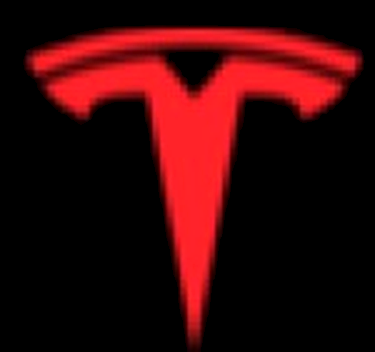
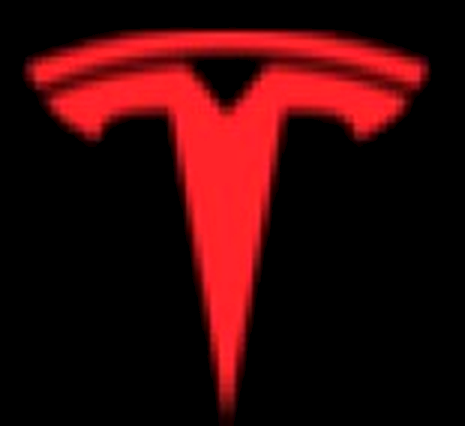
docs: fix Home longitudinal badges
Tesla T + TACC and comma + LONG are the stack badges. Atom
is experimental, on its own.

Changed region(s): [[0.0293, 0.0625, 0.968, 1.0]]

diff --git a/README.md b/README.md
@@ -41,9 +41,9 @@ The footer shows which longitudinal stack is live:
 
 | | |
 |:---:|:---|
-| <img src="docs/screenshots/icon-tacc.png" height="88" alt="TACC"> | **TACC** — Tesla Traffic-Aware Cruise Control. Openpilot steers. Tesla still does gas and brake. |
-| <img src="docs/screenshots/icon-long.png" height="88" alt="LONG"> | **LONG** — openpilot longitudinal. Alpha. Openpilot does gas and brake, not Tesla ACC. |
-| <img src="docs/screenshots/icon-experimental.png" height="88" alt="Experimental"> | **Experimental** — the atom. Tap to toggle when LONG is on. Hidden on TACC; Tesla is already the longitudinal stack. |
+| <img src="docs/screenshots/icon-tacc.png" height="104" alt="TACC"> | **TACC** — Tesla Traffic-Aware Cruise Control. Openpilot steers. Tesla still does gas and brake. |
+| <img src="docs/screenshots/icon-long.png" height="104" alt="LONG"> | **LONG** — openpilot longitudinal. Alpha. Openpilot does gas and brake, not Tesla ACC. |
+| <img src="docs/screenshots/icon-experimental.png" height="104" alt="Experimental"> | **Experimental** — the atom. Tap to toggle when LONG is on. Hidden on TACC; Tesla is already the longitudinal stack. |
 
 Speaking of statistics…
 
